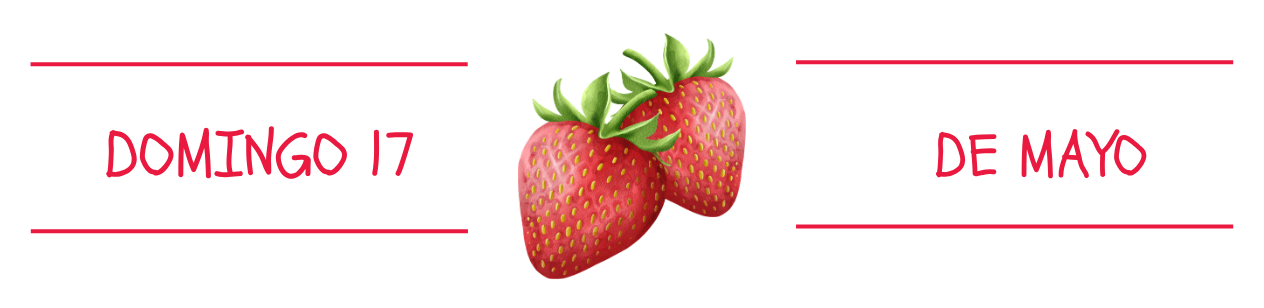
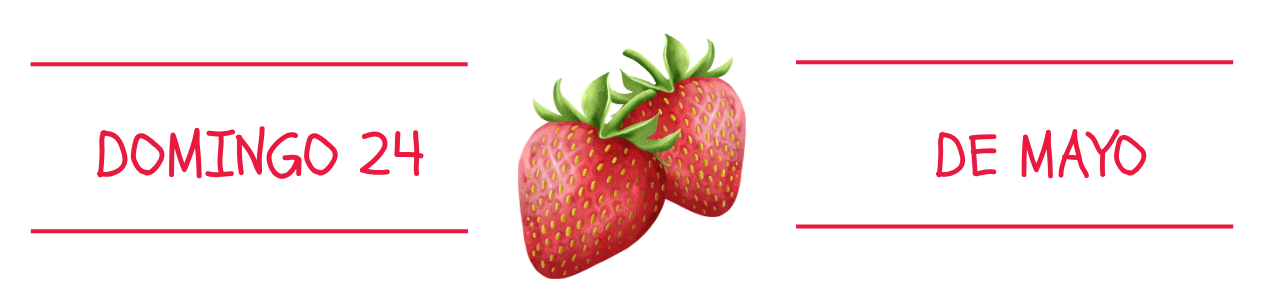
a
a

Changed region(s): [[0.0617, 0.4091, 0.3394, 0.5844]]

diff --git a/index.html b/index.html
@@ -42,7 +42,7 @@
     <div class="segundo"> 
   
           <p data-aos="fade-up"> TE ESPERO PARA FESTEJAR <br> MIS DOS AÑITOS <br>
-        🎉 17 DE MAYO<br>⏰ A LAS 16 HS <br> 📍 DE LOS MILAGROS 100, BARRIO GUIÑAZÚ. <br> <br>  HACE CLICK PARA SABER COMO LLEGAR</p>
+        🎉 24 DE MAYO<br>⏰ A LAS 16 HS <br> 📍 DE LOS MILAGROS 100, BARRIO GUIÑAZÚ. <br> <br>  HACE CLICK PARA SABER COMO LLEGAR</p>
       <a  data-aos="fade-up" class="boton2" target="_blank"  href="https://www.google.com/maps/dir//Ntra+Sra+de+los+Milagros+100,+X5145+C%C3%B3rdoba/@-31.3135198,-64.1750343,17z/data=!3m1!4b1!4m9!4m8!1m0!1m5!1m1!1s0x94329a3cdc8ac1bd:0x452e5044cde66a5d!2m2!1d-64.1750343!2d-31.3135198!3e0!18m1!1e1?entry=ttu&g_ep=EgoyMDI2MDUwMi4wIKXMDSoASAFQAw%3D%3D">CÓMO LLEGAR</a>    
        
   

diff --git a/countdown.js b/countdown.js
@@ -30,4 +30,4 @@ const countdown = (deadline, elem, finalMessage ) => {
 };
 
 
-countdown('MAY 17 2026 12:00:51 GMT-0300', 'clock', 'llego el dia')
+countdown('MAY 24 2026 12:00:51 GMT-0300', 'clock', 'llego el dia')
